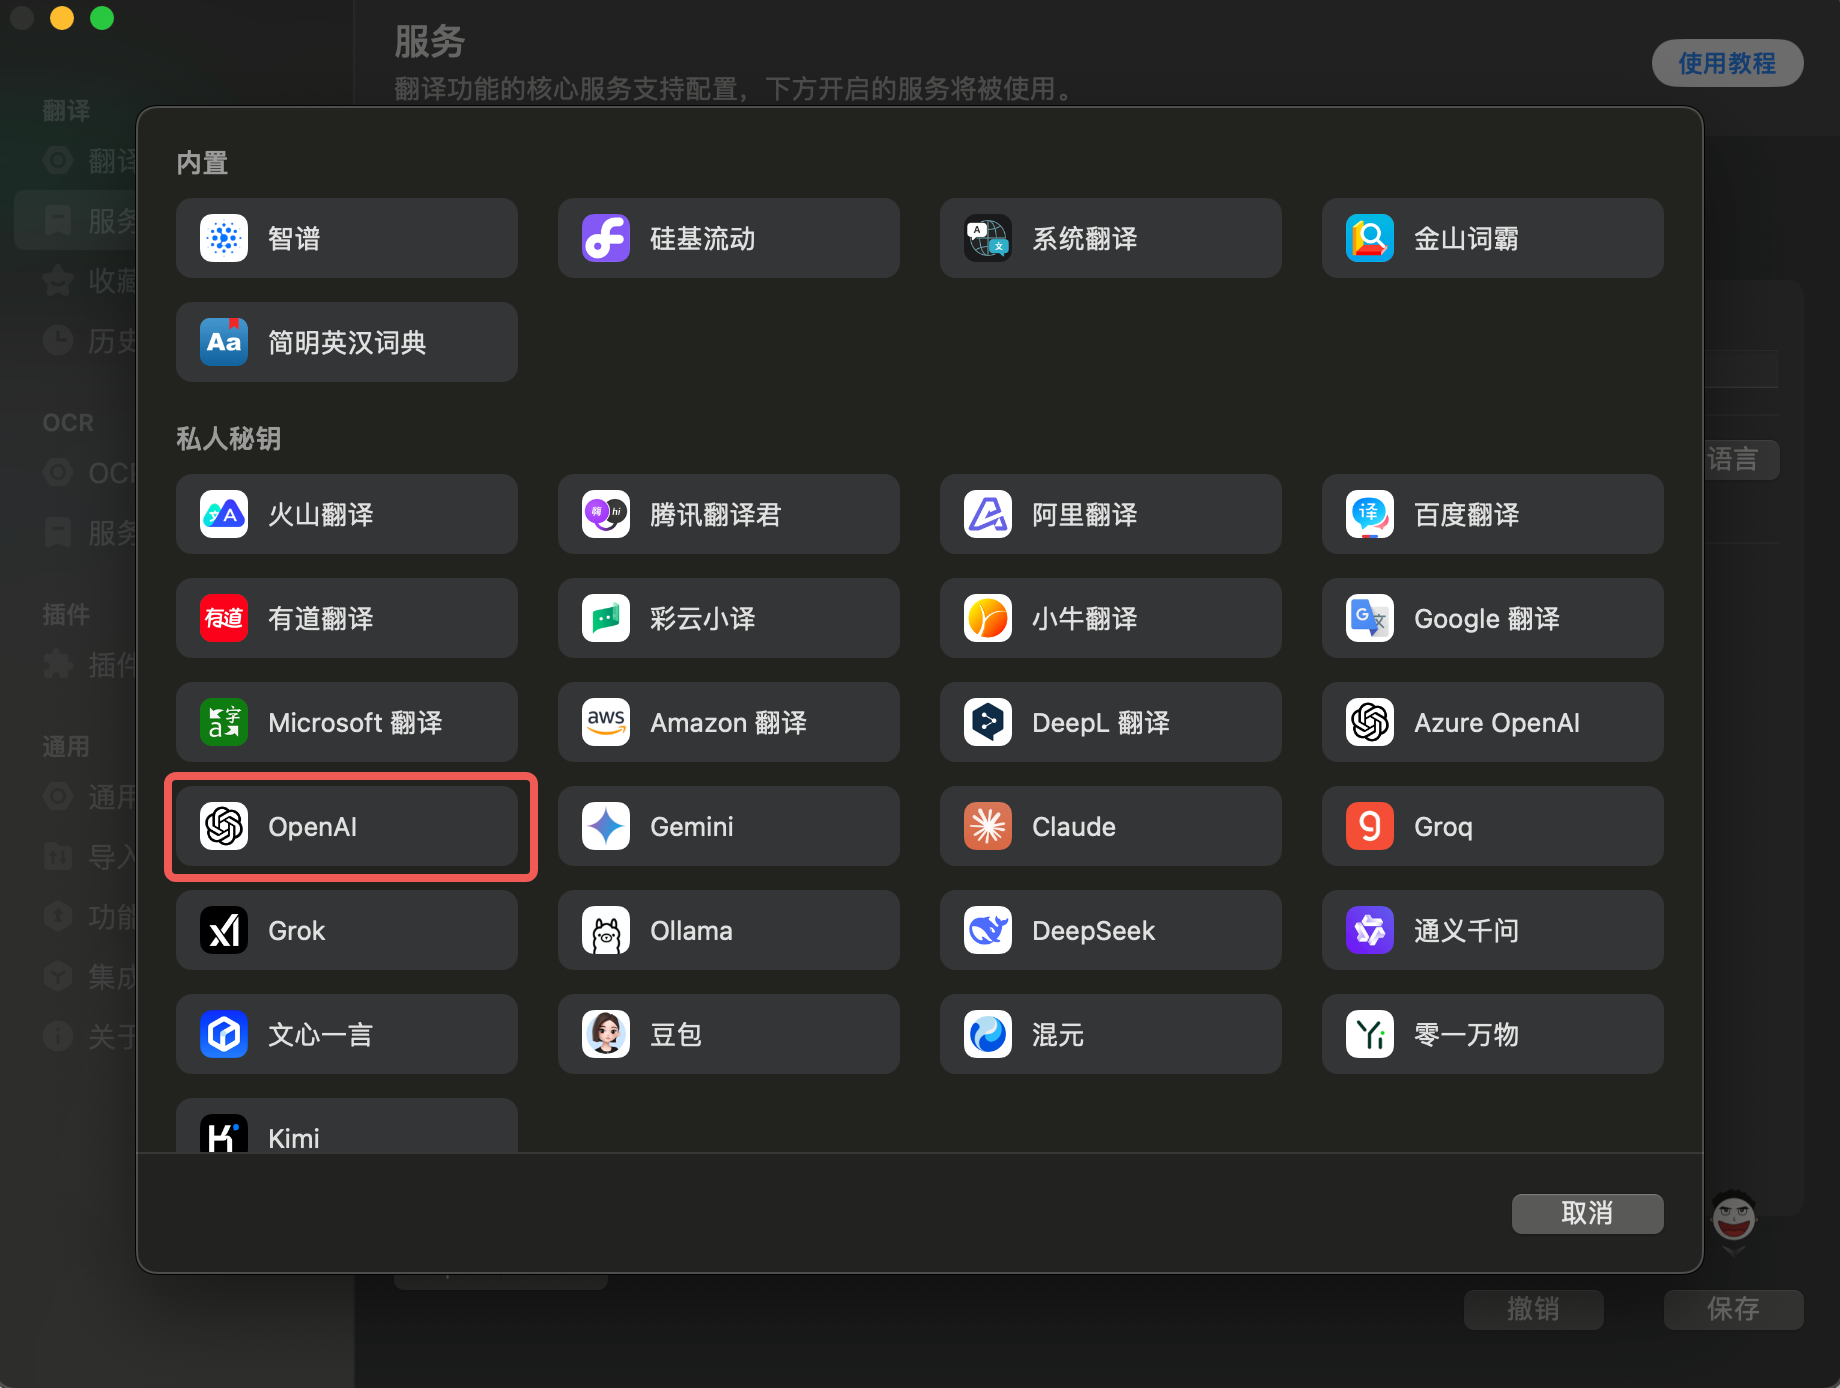
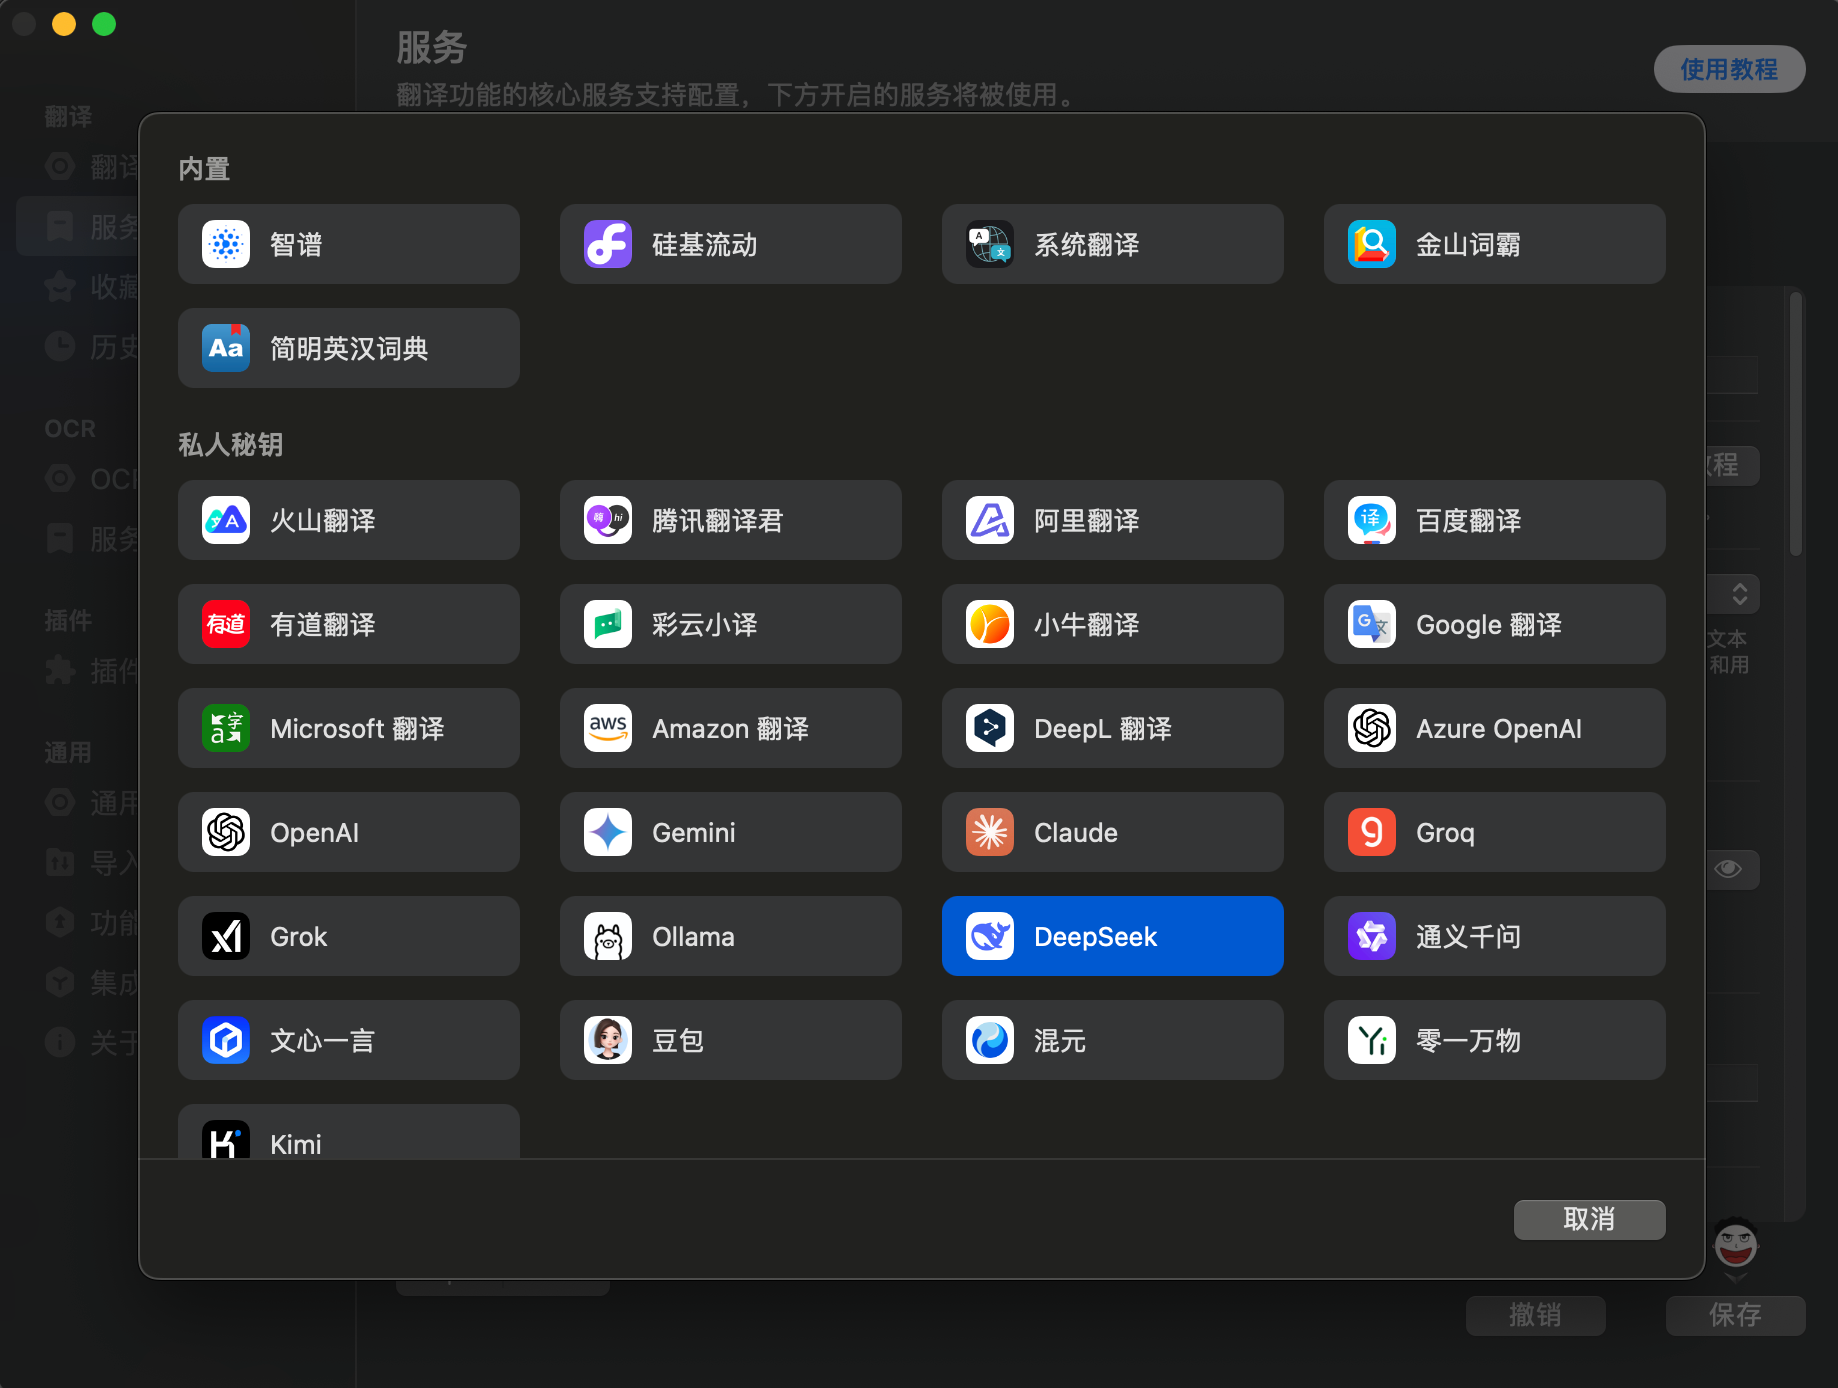
update 2025/0210-deep-drun.md

diff --git a/docs/zh/docs/blogs/2025/0210-deep-drun.md b/docs/zh/docs/blogs/2025/0210-deep-drun.md
@@ -6,15 +6,20 @@ hide:
 # 快速入门：部署、调用和体验 d.run DeepSeek
 
 d.run 目前为 DeepSeek 模型提供了免费一周的体验时间，
-打开 <https://console.d.run/> 即可免费体验一周以下几个 DeepSeek 模型的服务：
+打开 <https://console.d.run/> 即可一键免费体验以下几个 DeepSeek 模型的服务：
 
-- DeepSeek-R1
-- DeepSeek-V3
-- DeepSeek-R1-Distill-Qwen-32B
-- DeepSeek-R1-Distill-Qwen-14B
+- DeepSeek-R1：这是满血版，拥有完整的 2360 亿参数。采用稠密 Transformer 架构，在每次推理过程中全面激活所有模块。
+  在复杂推理任务领域展现出强大的实力。尤其在数学推理、代码生成和逻辑推理等高难度任务中，R1 的计算精度和推理速度均超越了许多同类模型。
+  在这些高端应用领域，R1 被认为能够与 OpenAI 的 GPT-4 等顶尖模型相媲美，其强大的推理能力远超一般的通用模型。
+- DeepSeek-V3：采用混合专家（MoE）架构，拥有 6710 亿参数，每次激活 370 亿参数。
+  在通用自然语言处理任务中表现出色，尤其在响应速度方面具有优势。
+- DeepSeek-R1-Distill-Qwen-32B：蒸馏模型
+- DeepSeek-R1-Distill-Qwen-14B：蒸馏模型
 
-不过，为了提高你的使用体验，建议部署一个自己专属的大模型。
-我们以 DeepSeek-R1-Distill-Qwen-14B 为例。
+![满血版体验](./images/deepr1.png)
+
+不过通常免费体验期只有一周，建议您部署一个自己专属的大模型。
+下文以 DeepSeek-R1-Distill-Qwen-14B 为例。
 
 ## 部署模型
 
@@ -30,9 +35,9 @@ d.run 目前为 DeepSeek 模型提供了免费一周的体验时间，
 
     ![部署成功](./images/deep03.png)
 
-## 在 d.run 中体验模型对话
+## 在 drun 中体验已部署模型对话
 
-点击操作列中的 **体验** ，即可使用 DeepSeek-R1-Distill-Qwen-14B 蒸馏模型开始对话聊天。
+在上图中，点击操作列中的 **体验** ，即可使用 DeepSeek-R1-Distill-Qwen-14B 蒸馏模型开始对话聊天。
 
 ![开始对话](./images/deep04.png)
 
@@ -73,7 +78,7 @@ d.run 目前为 DeepSeek 模型提供了免费一周的体验时间，
 
     ![增加服务](./images/deep10.png)
 
-1. 选择 OpenAI（后续应该会增加 DeepSeek 的选项）
+1. 选择 DeepSeek
 
     ![选择 OpenAI](./images/deep11.png)
 
